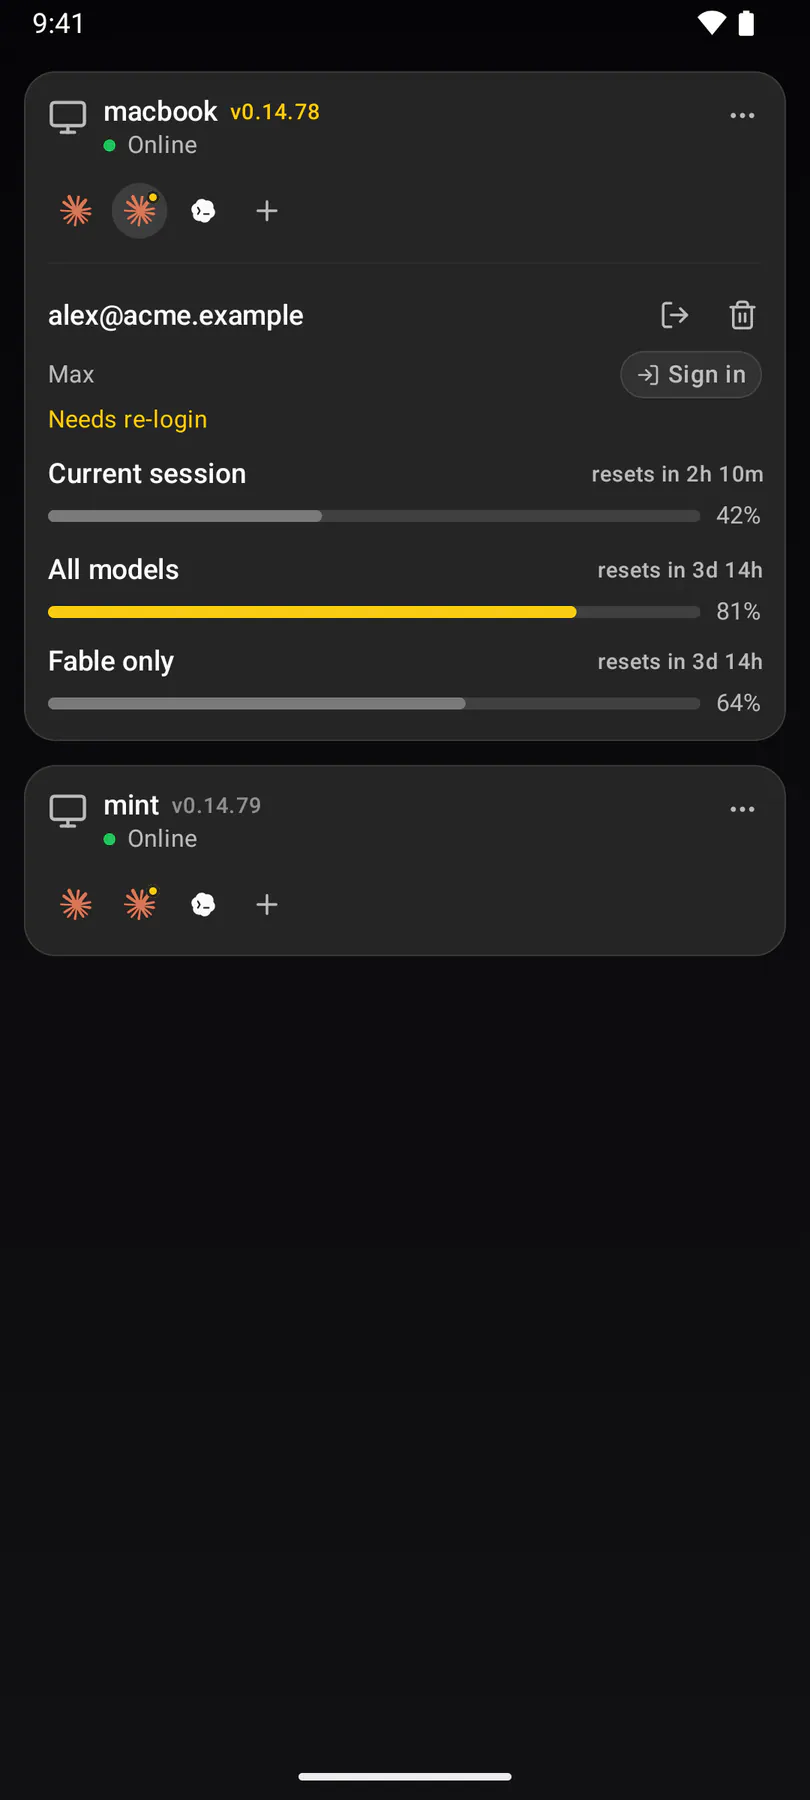
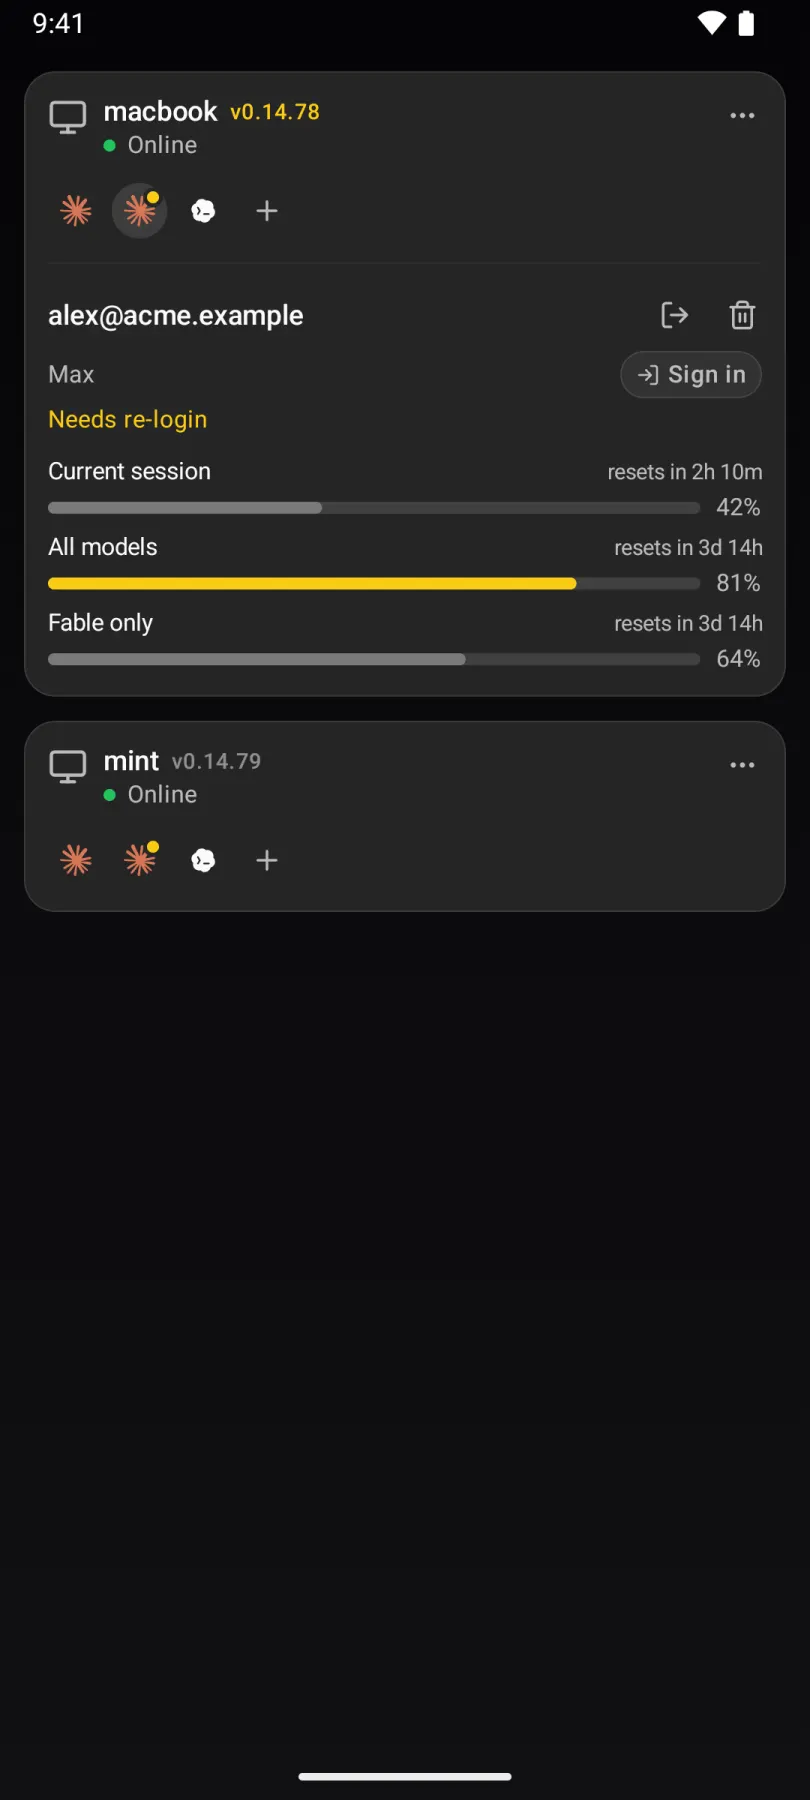
EXP-1691: device badge ring and usage windows, one look ×4
devices-list.json now states the spec with exact sizes and tokens.

The badge: `ring-glass-card-opaque` named no colour (`bg-glass-card-opaque`
is a two-layer utility, not a theme colour), so web's ring fell back to
currentColor and painted white. Web gets a real `--color-card-opaque`. All
four now draw a 6 dot in semantic.yellow with a 2 ring wholly outside it in
the opaque card fill; natives were showing a 4 dot.

Usage windows: web's sizes are the reference. iOS and Android titles drop
from 15 and 14 medium to 12 regular, desktop's caption to 11, every mini text
to 10, window gaps to 6. Desktop's title no longer truncates (EXP-1627).
Web's warning meter, the panel's status line and the outdated version move
from Tailwind amber-500 to semantic.yellow (`yellow-400`), the token the
natives already use. Meter's own eUI recipe is untouched for its other
callers.

Changed region(s): [[0.0309, 0.2178, 0.9877, 0.5289], [0.1543, 0.0933, 0.216, 0.1244]]

diff --git a/apps/android/app/src/main/java/com/exponential/app/ui/session/AgentUsageBar.kt b/apps/android/app/src/main/java/com/exponential/app/ui/session/AgentUsageBar.kt
@@ -24,6 +24,7 @@ import androidx.compose.ui.text.font.FontWeight
 import androidx.compose.ui.text.style.TextAlign
 import androidx.compose.ui.text.style.TextOverflow
 import androidx.compose.ui.unit.dp
+import androidx.compose.ui.unit.sp
 import com.exponential.app.data.api.AgentUsage
 import com.exponential.app.domain.AgentUsagePresentation
 import com.exponential.app.domain.UsageCard
@@ -61,10 +62,10 @@ internal fun UsageWindows(usage: AgentUsage, modifier: Modifier = Modifier) {
 
     Column(
         modifier = modifier.fillMaxWidth().alpha(if (age != null) 0.5f else 1f),
-        verticalArrangement = Arrangement.spacedBy(12.dp),
+        verticalArrangement = Arrangement.spacedBy(6.dp),
     ) {
         groups.forEach { group ->
-            Column(verticalArrangement = Arrangement.spacedBy(10.dp)) {
+            Column(verticalArrangement = Arrangement.spacedBy(6.dp)) {
                 // EXP-909: no group headings ×4 — every window names itself
                 // ("Current session" / "All models" / "<Label> only", or its
                 // wire label), so the groups only order the rows.
@@ -101,8 +102,7 @@ private fun UsageWindowRow(card: UsageCard) {
             // takes its full width and the weighted caption gets the rest.
             Text(
                 card.title,
-                style = MaterialTheme.typography.bodyMedium,
-                fontWeight = FontWeight.Medium,
+                style = MaterialTheme.typography.bodySmall.copy(letterSpacing = 0.sp),
                 color = MaterialTheme.colorScheme.onSurface,
                 maxLines = 1,
                 softWrap = false,
@@ -111,7 +111,7 @@ private fun UsageWindowRow(card: UsageCard) {
                 Spacer(Modifier.width(8.dp))
                 Text(
                     card.caption,
-                    style = MaterialTheme.typography.labelSmall,
+                    style = MaterialTheme.typography.labelSmall.copy(fontWeight = FontWeight.Normal, letterSpacing = 0.sp),
                     color = MaterialTheme.colorScheme.onSurface.copy(alpha = TextEmphasis.Secondary),
                     maxLines = 1,
                     overflow = TextOverflow.Ellipsis,
@@ -120,7 +120,7 @@ private fun UsageWindowRow(card: UsageCard) {
                 )
             }
         }
-        Spacer(Modifier.height(6.dp))
+        Spacer(Modifier.height(4.dp))
         Row(verticalAlignment = Alignment.CenterVertically, modifier = Modifier.fillMaxWidth()) {
             UsageTrack(
                 percent = card.percent.toDouble(),
@@ -189,7 +189,7 @@ internal fun AgentUsageMini(
                 ) {
                     Text(
                         window.label,
-                        style = MaterialTheme.typography.labelSmall,
+                        style = usageMiniTextStyle(),
                         color = MaterialTheme.colorScheme.onSurface.copy(alpha = TextEmphasis.Tertiary),
                         maxLines = 1,
                         overflow = TextOverflow.Ellipsis,
@@ -202,7 +202,7 @@ internal fun AgentUsageMini(
                     )
                     Text(
                         "${window.percent}%",
-                        style = MaterialTheme.typography.labelSmall,
+                        style = usageMiniTextStyle(),
                         color = MaterialTheme.colorScheme.onSurface.copy(alpha = TextEmphasis.Tertiary),
                         maxLines = 1,
                     )
@@ -212,7 +212,7 @@ internal fun AgentUsageMini(
                 if (reset != null) {
                     Text(
                         reset,
-                        style = MaterialTheme.typography.labelSmall,
+                        style = usageMiniTextStyle(),
                         color = MaterialTheme.colorScheme.onSurface.copy(alpha = TextEmphasis.Tertiary),
                         maxLines = 1,
                         overflow = TextOverflow.Ellipsis,
@@ -224,6 +224,15 @@ internal fun AgentUsageMini(
         }
     }
 }
+
+/** `devices-list.json`: every text of the mini form is 10, regular. */
+@Composable
+private fun usageMiniTextStyle() = MaterialTheme.typography.labelSmall.copy(
+    fontSize = 10.sp,
+    lineHeight = 12.sp,
+    fontWeight = FontWeight.Normal,
+    letterSpacing = 0.sp,
+)
 
 /**
  * A wall clock the countdowns re-read on. The synced snapshot itself doesn't

diff --git a/apps/ios/Exponential/UI/Session/AgentUsageCards.swift b/apps/ios/Exponential/UI/Session/AgentUsageCards.swift
@@ -34,7 +34,7 @@ struct UsageWindows: View {
     }
 
     var body: some View {
-        VStack(alignment: .leading, spacing: 10) {
+        VStack(alignment: .leading, spacing: 6) {
             ForEach(cards) { card in
                 windowRow(card)
             }
@@ -58,7 +58,7 @@ struct UsageWindows: View {
                 // EXP-1627: the title never truncates; the reset caption
                 // gives way first.
                 Text(card.title)
-                    .font(.subheadline.weight(.medium))
+                    .font(.system(size: DesignTokens.Typography.Size.xs))
                     .foregroundStyle(.white)
                     .lineLimit(1)
                     .fixedSize(horizontal: true, vertical: false)
@@ -118,7 +118,7 @@ struct AgentUsageMini: View {
                     VStack(spacing: 2) {
                         HStack(spacing: 4) {
                             Text(window.label)
-                                .font(.caption2)
+                                .font(.system(size: 10))
                                 .foregroundStyle(.white.opacity(TextOpacity.tertiary))
                                 .lineLimit(1)
                             AgentUsageTrack(
@@ -128,14 +128,14 @@ struct AgentUsageMini: View {
                             )
                             .frame(width: 24)
                             Text(window.percent.map { "\(Int($0.rounded()))%" } ?? "—")
-                                .font(.caption2.monospacedDigit())
+                                .font(.system(size: 10).monospacedDigit())
                                 .foregroundStyle(.white.opacity(TextOpacity.secondary))
                         }
                         // Centred under its own bar, and only where there is a
                         // reset to name (`miniWindowReset`).
                         if let reset = resetCaption(window) {
                             Text(reset)
-                                .font(.caption2)
+                                .font(.system(size: 10))
                                 .foregroundStyle(.white.opacity(TextOpacity.quaternary))
                                 .lineLimit(1)
                         }

diff --git a/packages/ui/src/usage-windows.tsx b/packages/ui/src/usage-windows.tsx
@@ -40,6 +40,12 @@ export function usageTone(percent: number): MeterTone {
   return `normal`
 }
 
+/** The warning tone wears `semantic.yellow` here (`yellow-400` IS #FACC15), as on
+ *  the natives (`devices-list.json`); `Meter`'s own recipe stays for its other callers. */
+function meterToneClass(tone: MeterTone) {
+  return tone === `warning` ? `[&_[data-slot=progress-indicator]]:bg-yellow-400` : undefined
+}
+
 export function UsageWindows({
   windows,
   density = `full`,
@@ -70,7 +76,7 @@ export function UsageWindows({
             <span className="w-8 shrink-0 truncate text-[10px] leading-none text-muted-foreground">
               {window.label}
             </span>
-            <Meter value={window.percent} tone={tone(window)} className="h-1 min-w-8 flex-1" />
+            <Meter value={window.percent} tone={tone(window)} className={cn(`h-1 min-w-8 flex-1`, meterToneClass(tone(window)))} />
           </div>
         ))}
       </div>
@@ -88,7 +94,7 @@ export function UsageWindows({
           <div key={window.key} className="flex min-w-0 flex-1 flex-col gap-0.5">
             <div className="flex min-w-0 items-center gap-1.5">
               <span className="shrink-0 text-[10px] text-muted-foreground">{window.label}</span>
-              <Meter value={window.percent} tone={tone(window)} className="h-1 min-w-4 flex-1" />
+              <Meter value={window.percent} tone={tone(window)} className={cn(`h-1 min-w-4 flex-1`, meterToneClass(tone(window)))} />
               <span className="shrink-0 text-[10px] tabular-nums text-muted-foreground">
                 {`${window.percent}%`}
               </span>
@@ -122,7 +128,7 @@ export function UsageWindows({
             )}
           </div>
           <div className="flex items-center gap-2">
-            <Meter value={window.percent} tone={tone(window)} className="min-w-0 flex-1" />
+            <Meter value={window.percent} tone={tone(window)} className={cn(`min-w-0 flex-1`, meterToneClass(tone(window)))} />
             <span className="shrink-0 text-xs tabular-nums text-muted-foreground">
               {`${window.percent}%`}
             </span>

diff --git a/apps/android/app/src/main/java/com/exponential/app/ui/components/AgentRunMark.kt b/apps/android/app/src/main/java/com/exponential/app/ui/components/AgentRunMark.kt
@@ -1,7 +1,6 @@
 package com.exponential.app.ui.components
 
 import androidx.compose.foundation.background
-import androidx.compose.foundation.border
 import androidx.compose.foundation.layout.Box
 import androidx.compose.foundation.layout.offset
 import androidx.compose.foundation.layout.size
@@ -17,6 +16,7 @@ import androidx.compose.runtime.setValue
 import androidx.compose.ui.Alignment
 import androidx.compose.ui.Modifier
 import androidx.compose.ui.draw.alpha
+import androidx.compose.ui.draw.drawBehind
 import androidx.compose.ui.graphics.graphicsLayer
 import androidx.compose.ui.graphics.Color
 import androidx.compose.ui.platform.testTag
@@ -166,14 +166,17 @@ fun AgentRunMark(
                     .align(Alignment.TopEnd)
                     .offset(x = badgeSize / 3, y = -(badgeSize / 3))
                     .size(badgeSize)
-                    .background(badge, CircleShape)
                     .then(
                         if (badgeRing != null) {
-                            Modifier.border(1.5.dp, badgeRing, CircleShape)
+                            // The ring lies wholly outside the dot (`devices-list.json`).
+                            Modifier.drawBehind {
+                                drawCircle(badgeRing, radius = badgeSize.toPx() / 2 + 2.dp.toPx())
+                            }
                         } else {
                             Modifier
                         },
                     )
+                    .background(badge, CircleShape)
                     .testTag("run-mark-badge"),
             )
         }

diff --git a/packages/ui/src/usage-windows.test.tsx b/packages/ui/src/usage-windows.test.tsx
@@ -37,6 +37,23 @@ describe(`UsageWindows`, () => {
     expect(container.textContent).toContain(`as of 2h ago`)
   })
 
+  it(`#EXP-1691: the warning meter wears semantic.yellow at every density, the rest the Meter's own`, () => {
+    for (const density of [`full`, `mini`, `hover`] as const) {
+      const { container } = render(<UsageWindows windows={WINDOWS} density={density} />)
+      const meters = container.querySelectorAll(`[data-slot=meter]`)
+      expect(meters[1]!.className).toContain(`bg-yellow-400`)
+      expect(meters[1]!.className).not.toContain(`bg-amber-500`)
+      expect(meters[2]!.className).toContain(`bg-destructive`)
+    }
+  })
+
+  it(`#EXP-1691: a full window's title is 12 regular, its caption 11`, () => {
+    const { getByText } = render(<UsageWindows windows={WINDOWS} />)
+    expect(getByText(`Current session`).className).toContain(`text-xs`)
+    expect(getByText(`Current session`).className).not.toContain(`font-medium`)
+    expect(getByText(`resets in 1h 4m`).className).toContain(`text-[11px]`)
+  })
+
   it(`an explicit tone beats the percent's own`, () => {
     const { container } = render(
       <UsageWindows windows={[{ key: `a`, label: `5h`, percent: 99, tone: `normal` }]} />

diff --git a/apps/styleguide/src/entries/device-attention.tsx b/apps/styleguide/src/entries/device-attention.tsx
@@ -38,7 +38,7 @@ function Icon({ agent, attention, open = false }: { agent: string; attention: bo
       <AgentRunMark
         agent={agent}
         state={attention ? `needs_input` : undefined}
-        ringClassName="ring-glass-card-opaque"
+        ringClassName="ring-card-opaque"
         className="size-4 [&>svg]:size-4"
       />
     </Button>
@@ -63,7 +63,7 @@ function Card({ name, version, outdated, status, preview }: {
         <div className="min-w-0 flex-1">
           <div className="flex min-w-0 items-baseline gap-1.5">
             <span className="min-w-0 truncate text-sm font-medium">{name}</span>
-            <span className={`shrink-0 text-[10px] ${outdated ? `text-amber-500` : `text-muted-foreground/60`}`}>
+            <span className={`shrink-0 text-[10px] ${outdated ? `text-yellow-400` : `text-muted-foreground/60`}`}>
               v{version}
             </span>
           </div>

diff --git a/apps/ios/Exponential/UI/Session/DeviceLogins.swift b/apps/ios/Exponential/UI/Session/DeviceLogins.swift
@@ -262,8 +262,8 @@ struct DeviceLoginIcon: View {
                                 Circle()
                                     .fill(DesignTokens.Semantic.yellow)
                                     .frame(width: 6, height: 6)
-                                    .overlay(
-                                        Circle().stroke(GlassTokens.opaqueCardFill, lineWidth: 2)
+                                    .background(
+                                        Circle().fill(GlassTokens.opaqueCardFill).padding(-2)
                                     )
                                     .offset(x: 2, y: -2)
                                     .accessibilityIdentifier(badgeId)

diff --git a/packages/ui/src/styles.css b/packages/ui/src/styles.css
@@ -72,6 +72,10 @@ html {
   --color-glass-section: var(--glass-fill-section);
   --color-glass-row: var(--glass-fill-row);
   --color-glass-card: var(--glass-fill-card);
+  /* A real colour for what `bg-glass-card-opaque` paints in two layers: a ring
+     cannot take a background-image, and `ring-glass-card-opaque` names no
+     colour, so it fell back to currentColor (a white ring). */
+  --color-card-opaque: color-mix(in srgb, oklch(1 0 0) 6%, var(--popover));
   --color-glass-panel: var(--glass-fill-panel);
   --color-glass-active: var(--glass-fill-active);
   --color-glass-stroke: var(--glass-stroke-row);

diff --git a/packages/ui/src/styles.test.ts b/packages/ui/src/styles.test.ts
@@ -67,6 +67,12 @@ describe(`@exp/ui styles.css`, () => {
     expect(css).toContain(`.emoji-picker-section {`)
   })
 
+  // #EXP-1691: `bg-glass-card-opaque` is a two-layer utility, not a colour, so
+  // a ring on the card's ground needs this one or it paints currentColor.
+  it(`owns the card's ground as a colour`, () => {
+    expect(css).toContain(`--color-card-opaque:`)
+  })
+
   // EXP-895: the diff view moved into the package, so the `.diff-code` scope
   // its per-line lowlight output renders under has to move with it — an app
   // that kept only the tiptap block would draw an uncoloured diff.

diff --git a/apps/web/src/components/my-machines.tsx b/apps/web/src/components/my-machines.tsx
@@ -468,7 +468,7 @@ function DeviceCard({
             {device.version && (
               <span
                 // Only my own machine's update is mine to act on.
-                className={`shrink-0 text-[10px] ${mine && outdated ? `text-amber-500` : `text-muted-foreground/60`}`}
+                className={`shrink-0 text-[10px] ${mine && outdated ? `text-yellow-400` : `text-muted-foreground/60`}`}
                 title={mine && outdated ? `Update available: ${latest}` : undefined}
               >
                 v{device.version}

diff --git a/apps/android/app/src/main/java/com/exponential/app/ui/session/AgentsScreen.kt b/apps/android/app/src/main/java/com/exponential/app/ui/session/AgentsScreen.kt
@@ -1044,7 +1044,7 @@ private fun DeviceLoginIcon(
                 agent = row.agent,
                 state = if (item != null) SessionTree.SessionState.NeedsYou else null,
                 size = DevicesList.Card.MARK_SIZE.dp,
-                badgeSize = 7.dp,
+                badgeSize = 6.dp,
                 badgeRing = GlassTokens.OpaqueCardFill,
             )
         }

diff --git a/packages/ui/src/device-account-panel.tsx b/packages/ui/src/device-account-panel.tsx
@@ -108,7 +108,7 @@ export function DeviceAccountPanel({
             {persisted}
           </span>
         )}
-        {status && <span className="text-xs text-amber-500">{status}</span>}
+        {status && <span className="text-xs text-yellow-400">{status}</span>}
       </div>
       <UsageWindows windows={windows} density="full" stale={stale} />
       {children}
